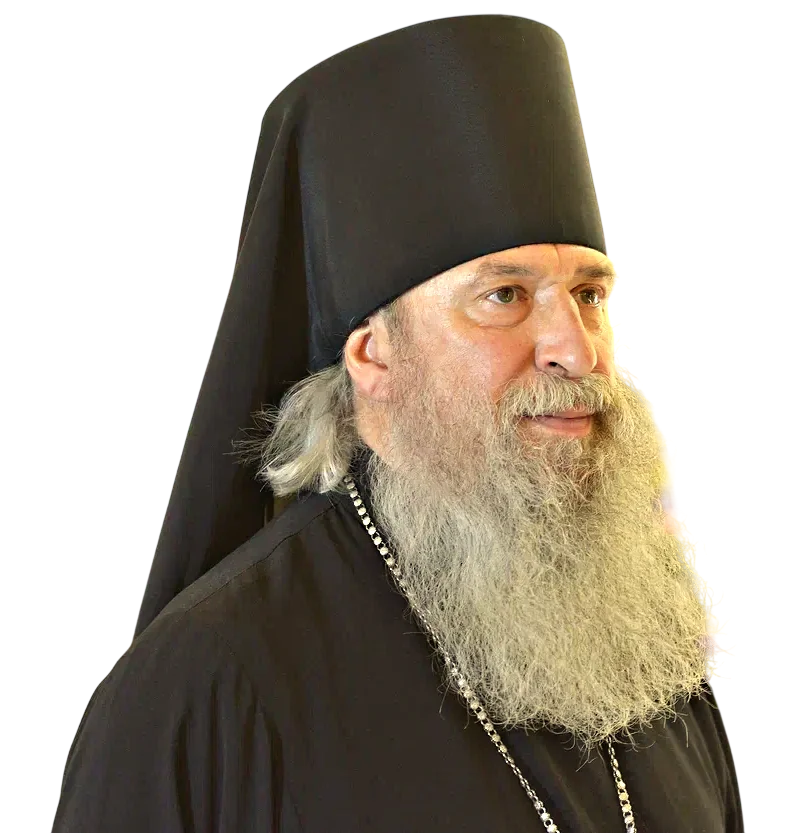
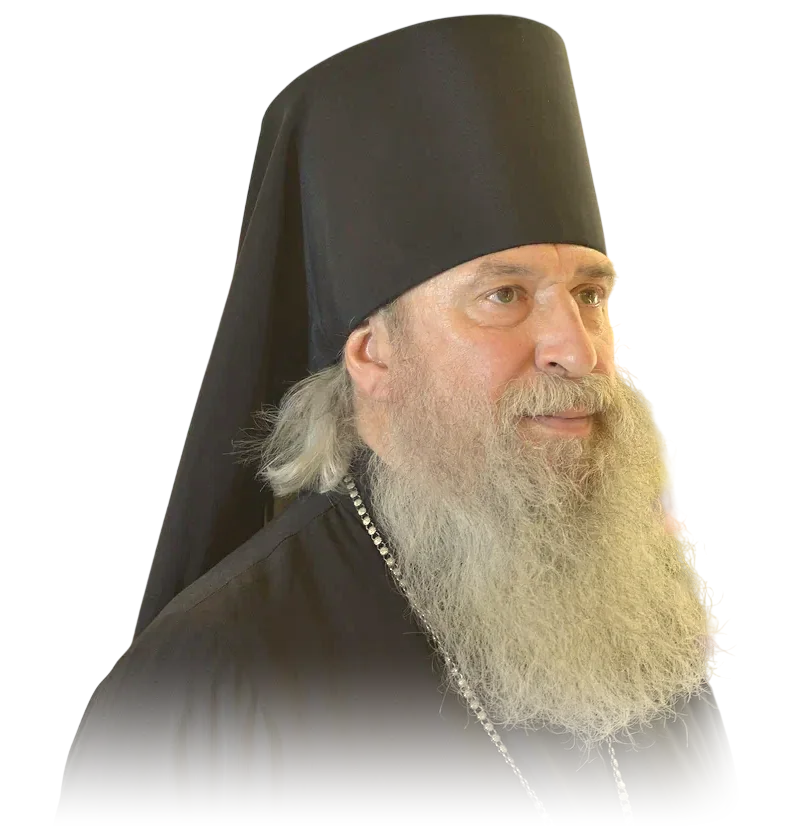
style(hero): собрать композицию первого экрана
- Низ портрета и прямой срез рясы растворяются в фон (плавная прозрачность
  в самом файле): фигура больше не выглядит наклеенной
- Контраст на шаг назад — портрет ближе по фактуре к мягкому фону
- Цитата поднята к уровню лица и бороды: взгляд портрета попадает в текст

Changed region(s): [[0.0604, 0.2809, 0.9358, 1.0], [0.6943, 0.0624, 0.7245, 0.0936], [0.6642, 0.4058, 0.6943, 0.437]]

diff --git a/assets/css/components.css b/assets/css/components.css
@@ -354,7 +354,9 @@ body { padding-top: var(--header-space, var(--header-total)); }
   width: 100%;
   max-width: calc(var(--container) + var(--gutter) * 2);
   margin: 0 auto;
-  padding: 0 var(--gutter) clamp(3rem, 11vh, 7rem);
+  /* Цитата поднята к уровню лица и бороды: взгляд портрета, обращённый
+     влево, попадает в текст, а не проходит над ним */
+  padding: 0 var(--gutter) clamp(5rem, 24vh, 13rem);
 }
 
 /* Кавычки — декор: на золотой бумаге золото читается только глубокое, и оно
